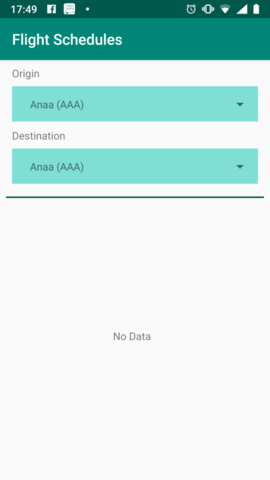
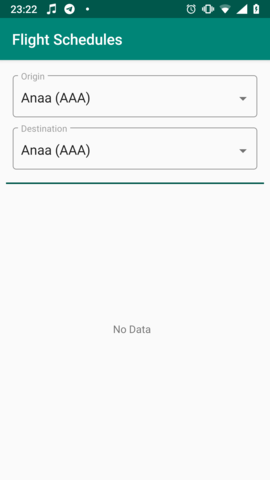
refactor: Change spinner design in selection screen

diff --git a/app/src/main/java/com/michaelbukachi/flightschedules/ui/selection/SelectionFragment.kt b/app/src/main/java/com/michaelbukachi/flightschedules/ui/selection/SelectionFragment.kt
@@ -5,6 +5,7 @@ import android.os.Bundle
 import android.view.LayoutInflater
 import android.view.View
 import android.view.ViewGroup
+import android.widget.ArrayAdapter
 import androidx.fragment.app.Fragment
 import androidx.lifecycle.Observer
 import androidx.lifecycle.ViewModelProviders
@@ -15,6 +16,7 @@ import com.michaelbukachi.flightschedules.R
 import com.michaelbukachi.flightschedules.di.injector
 import com.michaelbukachi.flightschedules.domain.models.Airport
 import com.michaelbukachi.flightschedules.domain.models.FlightSchedule
+import com.tiper.MaterialSpinner
 import kotlinx.android.synthetic.main.fragment_selection.*
 import kotlinx.coroutines.launch
 import timber.log.Timber
@@ -71,17 +73,41 @@ class SelectionFragment : Fragment() {
         }
 
         val adapter = FlightSchedulesAdapter(emptyList(), listener)
-        origin.setOnItemSelectedListener { _, pos, _, item ->
-            val selection = item as String
-            viewModel.originIndex = pos
-            viewModel.setOriginAirport(selection)
-            viewModel.fetchSchedules()
+        origin.onItemSelectedListener = object : MaterialSpinner.OnItemSelectedListener {
+            override fun onItemSelected(
+                parent: MaterialSpinner,
+                view: View?,
+                position: Int,
+                id: Long
+            ) {
+                val selection = parent.selectedItem as String
+                viewModel.originIndex = position
+                viewModel.setOriginAirport(selection)
+                viewModel.fetchSchedules()
+            }
+
+            override fun onNothingSelected(parent: MaterialSpinner) {
+                TODO("not implemented") //To change body of created functions use File | Settings | File Templates.
+            }
+
         }
-        destination.setOnItemSelectedListener { _, pos, _, item ->
-            val selection = item as String
-            viewModel.destinationIndex = pos
-            viewModel.setDestinationAirport(selection)
-            viewModel.fetchSchedules()
+        destination.onItemSelectedListener = object : MaterialSpinner.OnItemSelectedListener {
+            override fun onItemSelected(
+                parent: MaterialSpinner,
+                view: View?,
+                position: Int,
+                id: Long
+            ) {
+                val selection = parent.selectedItem as String
+                viewModel.destinationIndex = position
+                viewModel.setDestinationAirport(selection)
+                viewModel.fetchSchedules()
+            }
+
+            override fun onNothingSelected(parent: MaterialSpinner) {
+                TODO("not implemented") //To change body of created functions use File | Settings | File Templates.
+            }
+
         }
 
         schedulesList.setHasFixedSize(true)
@@ -98,10 +124,18 @@ class SelectionFragment : Fragment() {
         })
 
         viewModel.airportsFetched.observe(this, Observer {
-            origin.setItems(it)
-            origin.selectedIndex = viewModel.originIndex
-            destination.setItems(it)
-            destination.selectedIndex = viewModel.destinationIndex
+            val originAdapter =
+                ArrayAdapter<String>(context!!, android.R.layout.simple_spinner_item, it).apply {
+                    setDropDownViewResource(android.R.layout.simple_spinner_dropdown_item)
+                }
+            val destinationAdapter =
+                ArrayAdapter<String>(context!!, android.R.layout.simple_spinner_item, it).apply {
+                    setDropDownViewResource(android.R.layout.simple_spinner_dropdown_item)
+                }
+            origin.adapter = originAdapter
+            destination.adapter = destinationAdapter
+            origin.selection = viewModel.originIndex
+            destination.selection = viewModel.destinationIndex
         })
 
         viewModel.flightSchedule.observe(this, Observer {

diff --git a/app/src/main/java/com/michaelbukachi/flightschedules/data/utils.kt b/app/src/main/java/com/michaelbukachi/flightschedules/data/utils.kt
@@ -11,6 +11,7 @@ import org.threeten.bp.LocalDateTime
 import retrofit2.HttpException
 import timber.log.Timber
 import java.net.SocketTimeoutException
+import java.net.UnknownHostException
 import javax.inject.Inject
 
 
@@ -84,19 +85,25 @@ class TimeoutInterceptor : Interceptor {
     override fun intercept(chain: Interceptor.Chain): Response {
         return try {
             chain.proceed(chain.request())
-        } catch (e: SocketTimeoutException) {
-            Timber.e(e)
+        } catch (e: Exception) {
+            when (e) {
+                is SocketTimeoutException, is UnknownHostException -> {
+                    Timber.e(e)
 
-            val body = "{\"status\": \"error\", \"message\": \"Timeout has occurred\"}"
-                .toResponseBody("application/json".toMediaType())
+                    val body = "{\"status\": \"error\", \"message\": \"Timeout has occurred\"}"
+                        .toResponseBody("application/json".toMediaType())
 
-            Response.Builder()
-                .request(chain.request())
-                .protocol(Protocol.HTTP_1_1)
-                .code(500)
-                .body(body)
-                .message("Unable to connect")
-                .build()
+                    Response.Builder()
+                        .request(chain.request())
+                        .protocol(Protocol.HTTP_1_1)
+                        .code(500)
+                        .body(body)
+                        .message("Unable to connect")
+                        .build()
+                }
+                else -> throw e
+            }
+
         }
     }
 
